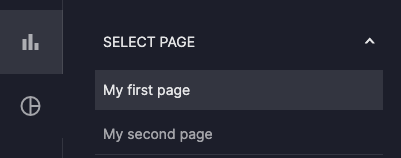
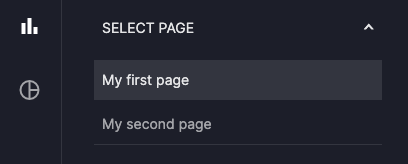
Enable tooltips in `NavLink` and add minor CSS fixes for `Navigation` (#186)

diff --git a/vizro-core/src/vizro/static/css/layout.css b/vizro-core/src/vizro/static/css/layout.css
@@ -117,7 +117,7 @@
 
 .icon-button {
   background-color: var(--surfaces-bg-02);
-  width: 64px;
+  width: 100%;
   height: 64px;
   display: flex;
   align-items: center;
@@ -131,32 +131,28 @@ div.dashboard_container .tooltip-inner {
 div.dashboard_container .custom-tooltip {
   color: var(--text-primary);
 }
-.icon-text {
-  font-size: var(--text-size-02);
-  letter-spacing: var(--letter-spacing-body-edit-01);
-  color: var(--text-secondary);
-  padding: 4px;
-}
 
-.nav-icon {
-  filter: var(--fill-accordion-button);
-  width: 24px;
-  height: 24px;
+.icon-button.btn.btn-primary.active .material-symbols-outlined {
+  color: var(--text-active);
 }
-
-.nav-icon-text {
-  display: flex;
-  flex-direction: column;
-  align-items: center;
-  gap: 6px;
-  justify-content: center;
-}
-
-.icon-button.btn.btn-primary.active {
-  background-color: var(--state-overlays-selected);
-}
-
 .loading-container {
   height: 100%;
   width: 100%;
+}
+
+.mantine-Tooltip-tooltip {
+  font-size: var(--text-size-01);
+  font-weight: var(--text-weight-light);
+  line-height: 16px;
+  letter-spacing: var(--letter-spacing-help-text);
+  padding: var(--spacing-01) var(--spacing-02);
+  color: var(--tooltip-text-primary);
+  background-color: var(--border-selected);
+  max-width: 180px;
+  overflow-wrap: break-word;
+  text-wrap: wrap;
+  filter: drop-shadow(0px 2px 2px #141721);
+  border-radius: 0;
+  box-shadow: var(--box-shadow-elevation-tooltip-hover);
+  white-space: pre-wrap;
 }

diff --git a/vizro-core/src/vizro/static/css/variables.css b/vizro-core/src/vizro/static/css/variables.css
@@ -85,6 +85,9 @@
   --state-overlays-selected-hover: var(
     --state-overlays-dark-mode-selected-hover
   );
+  --tooltip-text-primary: rgba(20, 23, 33, 0.88);
+  --box-shadow-elevation-tooltip-hover: 0px 4px 8px 0px rgba(20, 23, 33, 0.38),
+    0px 2px 4px -1px rgba(20, 23, 33, 0.88);
 }
 
 .vizro_light {
@@ -143,4 +146,7 @@
   --state-overlays-selected-hover: var(
     --state-overlays-light-mode-selected-hover
   );
+  --tooltip-text-primary: rgba(255, 255, 255, 0.88);
+  --box-shadow-elevation-tooltip-hover: 0px 4px 8px 0px rgba(20, 23, 33, 0.12),
+    0px 2px 4px -1px rgba(20, 23, 33, 0.08);
 }

diff --git a/vizro-core/src/vizro/static/css/slider.css b/vizro-core/src/vizro/static/css/slider.css
@@ -134,3 +134,7 @@
   justify-content: space-between;
   width: 100%;
 }
+
+input.dash-input:invalid {
+  outline: none;
+}

diff --git a/vizro-core/tests/unit/vizro/models/_navigation/test_nav_bar.py b/vizro-core/tests/unit/vizro/models/_navigation/test_nav_bar.py
@@ -2,6 +2,7 @@
 import re
 
 import dash_bootstrap_components as dbc
+import dash_mantine_components as dmc
 import pytest
 from asserts import assert_component_equal
 from dash import html
@@ -73,11 +74,21 @@ class TestNavBarPreBuildMethod:
 class TestNavBarBuildMethod:
     """Tests NavBar model build method."""
 
+    common_args = {"offset": 4, "withArrow": True, "position": "bottom-start"}
+
     def test_nav_bar_active_pages_as_dict(self, pages_as_dict):
         nav_bar = vm.NavBar(pages=pages_as_dict)
         nav_bar.pre_build()
         built_nav_bar = nav_bar.build(active_page_id="Page 1")
-        expected_button = html.Div([dbc.Button(children=[html.Span(children="filter_1")], active=True, href="/")])
+        expected_button = html.Div(
+            [
+                dbc.Button(
+                    children=[dmc.Tooltip(label="Group", children=[html.Span("filter_1")], **self.common_args)],
+                    active=True,
+                    href="/",
+                )
+            ]
+        )
         assert_component_equal(built_nav_bar["nav_bar_outer"], expected_button)
         assert_component_equal(
             built_nav_bar["nav_panel_outer"], html.Div(id="nav_panel_outer"), keys_to_strip={"children", "className"}
@@ -90,8 +101,16 @@ class TestNavBarBuildMethod:
         built_nav_bar = nav_bar.build(active_page_id="Page 1")
         expected_buttons = html.Div(
             [
-                dbc.Button(children=[html.Span(children="filter_1")], active=True, href="/"),
-                dbc.Button(children=[html.Span(children="filter_2")], active=False, href="/page-2"),
+                dbc.Button(
+                    children=[dmc.Tooltip(label="Page 1", children=[html.Span("filter_1")], **self.common_args)],
+                    active=True,
+                    href="/",
+                ),
+                dbc.Button(
+                    children=[dmc.Tooltip(label="Page 2", children=[html.Span("filter_2")], **self.common_args)],
+                    active=False,
+                    href="/page-2",
+                ),
             ]
         )
         assert_component_equal(built_nav_bar["nav_bar_outer"], expected_buttons)
@@ -105,7 +124,15 @@ class TestNavBarBuildMethod:
         nav_bar = vm.NavBar(pages=pages_as_dict)
         nav_bar.pre_build()
         built_nav_bar = nav_bar.build(active_page_id="Page 3")
-        expected_button = html.Div([dbc.Button(children=[html.Span(children="filter_1")], active=False, href="/")])
+        expected_button = html.Div(
+            [
+                dbc.Button(
+                    children=[dmc.Tooltip(label="Group", children=[html.Span("filter_1")], **self.common_args)],
+                    active=False,
+                    href="/",
+                )
+            ]
+        )
         assert_component_equal(built_nav_bar["nav_bar_outer"], expected_button)
         assert_component_equal(
             built_nav_bar["nav_panel_outer"], html.Div(hidden=True, id="nav_panel_outer"), keys_to_strip={}
@@ -117,8 +144,16 @@ class TestNavBarBuildMethod:
         built_nav_bar = nav_bar.build(active_page_id="Page 3")
         expected_buttons = html.Div(
             [
-                dbc.Button(children=[html.Span(children="filter_1")], active=False, href="/"),
-                dbc.Button(children=[html.Span(children="filter_2")], active=False, href="/page-2"),
+                dbc.Button(
+                    children=[dmc.Tooltip(label="Page 1", children=[html.Span("filter_1")], **self.common_args)],
+                    active=False,
+                    href="/",
+                ),
+                dbc.Button(
+                    children=[dmc.Tooltip(label="Page 2", children=[html.Span("filter_2")], **self.common_args)],
+                    active=False,
+                    href="/page-2",
+                ),
             ]
         )
         assert_component_equal(built_nav_bar["nav_bar_outer"], expected_buttons)

diff --git a/vizro-core/tests/unit/vizro/models/_navigation/test_nav_link.py b/vizro-core/tests/unit/vizro/models/_navigation/test_nav_link.py
@@ -2,6 +2,7 @@
 import re
 
 import dash_bootstrap_components as dbc
+import dash_mantine_components as dmc
 import pytest
 from asserts import assert_component_equal
 from dash import html
@@ -68,12 +69,18 @@ class TestNavLinkPreBuildMethod:
 class TestNavLinkBuildMethod:
     """Tests NavLink model build method."""
 
+    common_args = {"offset": 4, "withArrow": True, "position": "bottom-start"}
+
     def test_nav_link_active(self, pages, request):
         pages = request.getfixturevalue(pages)
         nav_link = vm.NavLink(id="nav_link", label="Label", icon="icon", pages=pages)
         nav_link.pre_build()
         built_nav_link = nav_link.build(active_page_id="Page 1")
-        expected_button = dbc.Button(id="nav_link", children=[html.Span("icon")], active=True, href="/")
+        expected_button = dbc.Button(
+            children=[dmc.Tooltip(label="Label", children=[html.Span("icon")], **self.common_args)],
+            active=True,
+            href="/",
+        )
         assert_component_equal(built_nav_link["nav_link"], expected_button)
         assert all(isinstance(child, dbc.Accordion) for child in built_nav_link["nav_panel_outer"].children)
 
@@ -82,6 +89,10 @@ class TestNavLinkBuildMethod:
         nav_link = vm.NavLink(id="nav_link", label="Label", icon="icon", pages=pages)
         nav_link.pre_build()
         built_nav_link = nav_link.build(active_page_id="Page 3")
-        expected_button = dbc.Button(id="nav_link", children=[html.Span("icon")], active=False, href="/")
+        expected_button = dbc.Button(
+            children=[dmc.Tooltip(label="Label", children=[html.Span("icon")], **self.common_args)],
+            active=False,
+            href="/",
+        )
         assert_component_equal(built_nav_link["nav_link"], expected_button)
         assert "nav_panel_outer" not in built_nav_link

diff --git a/vizro-core/src/vizro/models/_navigation/nav_link.py b/vizro-core/src/vizro/models/_navigation/nav_link.py
@@ -4,6 +4,7 @@ import itertools
 
 import dash
 import dash_bootstrap_components as dbc
+import dash_mantine_components as dmc
 from dash import html
 from pydantic import Field, PrivateAttr, validator
 
@@ -57,10 +58,13 @@ class NavLink(VizroBaseModel):
 
         button = dbc.Button(
             [
-                html.Span(self.icon, className="material-symbols-outlined"),
-                # TODO: commented out until we insert styling for the tooltip or find a better way to display it (e.g.
-                # try dbc.Popover or Dash mantine components tooltip?).
-                # dbc.Tooltip(html.P(self.label), target=self.id, placement="bottom", className="custom-tooltip"),
+                dmc.Tooltip(
+                    label=self.label,
+                    offset=4,
+                    withArrow=True,
+                    children=[html.Span(self.icon, className="material-symbols-outlined")],
+                    position="bottom-start",
+                )
             ],
             id=self.id,
             className="icon-button",

diff --git a/vizro-core/src/vizro/models/_navigation/accordion.py b/vizro-core/src/vizro/models/_navigation/accordion.py
@@ -48,7 +48,7 @@ class Accordion(VizroBaseModel):
                 dbc.AccordionItem(
                     children=accordion_buttons,
                     title=page_group.upper(),
-                    class_name="accordion_item",
+                    class_name="accordion-item-header",
                 )
             )
 

diff --git a/vizro-core/examples/default/app.py b/vizro-core/examples/default/app.py
@@ -526,7 +526,8 @@ dashboard = vm.Dashboard(
         pages={
             "Analysis": ["Homepage", "Variable Analysis", "Relationship Analysis", "Country Analysis"],
             "Summary": ["Continent Summary"],
-        }
+        },
+        nav_selector=vm.NavBar(),
     ),
 )
 

diff --git a/vizro-core/src/vizro/models/__init__.py b/vizro-core/src/vizro/models/__init__.py
@@ -22,6 +22,7 @@ NavLink.update_forward_refs(Accordion=Accordion)
 
 # Please keep alphabetically ordered
 __all__ = [
+    "Accordion",
     "Action",
     "Button",
     "Card",

diff --git a/vizro-core/changelog.d/20231201_152948_nadija_ratkusic_graca_navigation_css_refinements.md b/vizro-core/changelog.d/20231201_152948_nadija_ratkusic_graca_navigation_css_refinements.md
@@ -1,0 +1,47 @@
+<!--
+A new scriv changelog fragment.
+
+Uncomment the section that is right (remove the HTML comment wrapper).
+-->
+
+<!--
+### Highlights ✨
+
+- A bullet item for the Highlights ✨ category with a link to the relevant PR at the end of your entry, e.g. Enable feature XXX ([#1](https://github.com/mckinsey/vizro/pull/1))
+
+-->
+<!--
+### Removed
+
+- A bullet item for the Removed category with a link to the relevant PR at the end of your entry, e.g. Enable feature XXX ([#1](https://github.com/mckinsey/vizro/pull/1))
+
+-->
+
+### Added
+
+- Enable tooltips for `NavLink`. ([#186](https://github.com/mckinsey/vizro/pull/186))
+
+<!--
+### Changed
+
+- A bullet item for the Changed category with a link to the relevant PR at the end of your entry, e.g. Enable feature XXX ([#1](https://github.com/mckinsey/vizro/pull/1))
+
+-->
+<!--
+### Deprecated
+
+- A bullet item for the Deprecated category with a link to the relevant PR at the end of your entry, e.g. Enable feature XXX ([#1](https://github.com/mckinsey/vizro/pull/1))
+
+-->
+<!--
+### Fixed
+
+- A bullet item for the Fixed category with a link to the relevant PR at the end of your entry, e.g. Enable feature XXX ([#1](https://github.com/mckinsey/vizro/pull/1))
+
+-->
+<!--
+### Security
+
+- A bullet item for the Security category with a link to the relevant PR at the end of your entry, e.g. Enable feature XXX ([#1](https://github.com/mckinsey/vizro/pull/1))
+
+-->

diff --git a/vizro-core/docs/pages/user_guides/navigation.md b/vizro-core/docs/pages/user_guides/navigation.md
@@ -174,7 +174,7 @@ Another way to group together pages in the navigation is to use a [`NavBar`][viz
     [NavBar]: ../../assets/user_guides/navigation/nav_bar.png
 
 
-Here, the first level of the navigation hierarchy ("Group A" and "Group B") is represented by an icon in a navigation bar, and the second level of the navigation (the pages) is represented by an accordion. By default, the icons are the [`filter` icons from the Google Material icons library](https://fonts.google.com/icons?icon.query=filter).
+Here, the first level of the navigation hierarchy ("Group A" and "Group B") is represented by an icon in a navigation bar, and the second level of the navigation (the pages) is represented by an accordion. By default, the icons are the [`filter` icons from the Google Material icons library](https://fonts.google.com/icons?icon.query=filter). The icon label ("Group A" and "Group B") appears as a tooltip on hovering over the icon.
 
 ## Customizing the navigation bar
 
